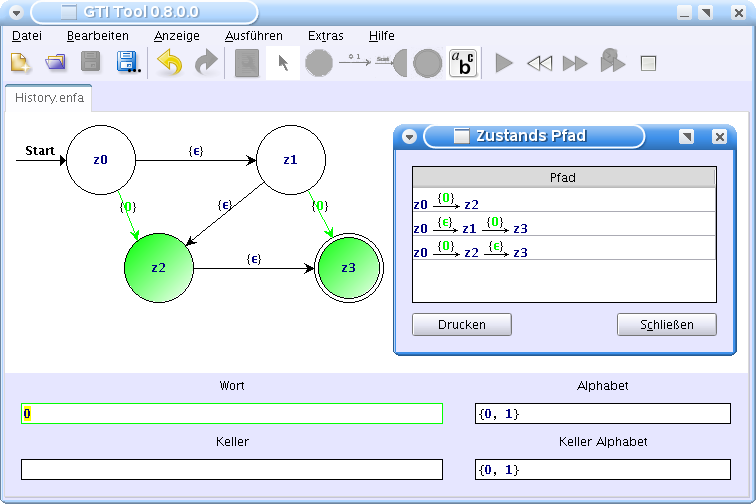
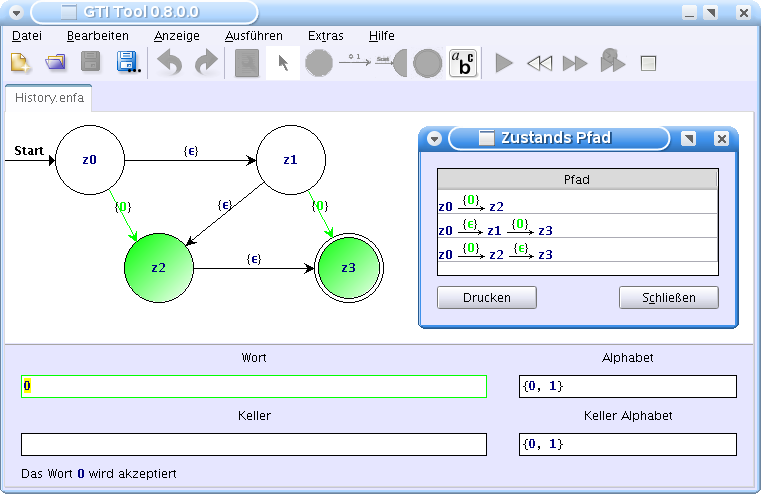
- Add a status bar to the word panel. - Update the manual images.
git-svn-id: https://vcs.informatik.uni-siegen.de/svn/gtitool/trunk@1184 d1fb0f2a-2248-4f96-a540-7c12a6a72a62

diff --git a/de.unisiegen.gtitool.ui/source/de/unisiegen/gtitool/ui/netbeans/WordPanelForm.java b/de.unisiegen.gtitool.ui/source/de/unisiegen/gtitool/ui/netbeans/WordPanelForm.java
@@ -126,8 +126,9 @@ public class WordPanelForm extends JPanel implements LanguageChangedListener
         styledStackParserPanel = new de.unisiegen.gtitool.ui.style.StyledStackParserPanel();
         jGTILabelPushDownAlphabet = new de.unisiegen.gtitool.ui.swing.JGTILabel();
         styledAlphabetParserPanelPushDown = new de.unisiegen.gtitool.ui.style.StyledAlphabetParserPanel();
-        jGTIPanelColumn1 = new de.unisiegen.gtitool.ui.swing.JGTIPanel();
-        jGTIPanelColumn2 = new de.unisiegen.gtitool.ui.swing.JGTIPanel();
+        jGTILabelStatus = new de.unisiegen.gtitool.ui.swing.JGTILabel();
+        jGTIColumn0 = new de.unisiegen.gtitool.ui.swing.JGTIPanel();
+        jGTIColumn1 = new de.unisiegen.gtitool.ui.swing.JGTIPanel();
 
         setLayout(new java.awt.GridBagLayout());
 
@@ -144,6 +145,7 @@ public class WordPanelForm extends JPanel implements LanguageChangedListener
         gridBagConstraints.gridx = 0;
         gridBagConstraints.gridy = 1;
         gridBagConstraints.fill = java.awt.GridBagConstraints.BOTH;
+        gridBagConstraints.weightx = 1.0;
         gridBagConstraints.weighty = 1.0;
         gridBagConstraints.insets = new java.awt.Insets(5, 0, 5, 16);
         add(styledWordParserPanel, gridBagConstraints);
@@ -183,8 +185,9 @@ public class WordPanelForm extends JPanel implements LanguageChangedListener
         gridBagConstraints.gridx = 0;
         gridBagConstraints.gridy = 3;
         gridBagConstraints.fill = java.awt.GridBagConstraints.BOTH;
+        gridBagConstraints.weightx = 1.0;
         gridBagConstraints.weighty = 1.0;
-        gridBagConstraints.insets = new java.awt.Insets(5, 0, 0, 16);
+        gridBagConstraints.insets = new java.awt.Insets(5, 0, 5, 16);
         add(styledStackParserPanel, gridBagConstraints);
 
         jGTILabelPushDownAlphabet.setHorizontalAlignment(javax.swing.SwingConstants.CENTER);
@@ -204,36 +207,42 @@ public class WordPanelForm extends JPanel implements LanguageChangedListener
         gridBagConstraints.gridy = 3;
         gridBagConstraints.fill = java.awt.GridBagConstraints.BOTH;
         gridBagConstraints.weighty = 1.0;
-        gridBagConstraints.insets = new java.awt.Insets(5, 16, 0, 16);
+        gridBagConstraints.insets = new java.awt.Insets(5, 16, 5, 16);
         add(styledAlphabetParserPanelPushDown, gridBagConstraints);
 
-        jGTIPanelColumn1.setMinimumSize(new java.awt.Dimension(100, 16));
-        jGTIPanelColumn1.setPreferredSize(new java.awt.Dimension(100, 16));
+        jGTILabelStatus.setText(bundle.getString("WordPanel.StatusEmpty")); // NOI18N
         gridBagConstraints = new java.awt.GridBagConstraints();
         gridBagConstraints.gridx = 0;
         gridBagConstraints.gridy = 4;
+        gridBagConstraints.gridwidth = 2;
+        gridBagConstraints.fill = java.awt.GridBagConstraints.HORIZONTAL;
+        gridBagConstraints.insets = new java.awt.Insets(5, 16, 0, 16);
+        add(jGTILabelStatus, gridBagConstraints);
+        gridBagConstraints = new java.awt.GridBagConstraints();
+        gridBagConstraints.gridx = 0;
+        gridBagConstraints.gridy = 5;
         gridBagConstraints.fill = java.awt.GridBagConstraints.BOTH;
         gridBagConstraints.weightx = 1.0;
-        add(jGTIPanelColumn1, gridBagConstraints);
+        add(jGTIColumn0, gridBagConstraints);
 
-        jGTIPanelColumn2.setMinimumSize(new java.awt.Dimension(200, 16));
-        jGTIPanelColumn2.setPreferredSize(new java.awt.Dimension(200, 16));
+        jGTIColumn1.setMinimumSize(new java.awt.Dimension(250, 5));
+        jGTIColumn1.setPreferredSize(new java.awt.Dimension(250, 5));
         gridBagConstraints = new java.awt.GridBagConstraints();
         gridBagConstraints.gridx = 1;
-        gridBagConstraints.gridy = 4;
+        gridBagConstraints.gridy = 5;
         gridBagConstraints.fill = java.awt.GridBagConstraints.BOTH;
-        gridBagConstraints.weightx = 0.25;
-        add(jGTIPanelColumn2, gridBagConstraints);
+        add(jGTIColumn1, gridBagConstraints);
     }// </editor-fold>//GEN-END:initComponents
     
     
     // Variables declaration - do not modify//GEN-BEGIN:variables
+    public de.unisiegen.gtitool.ui.swing.JGTIPanel jGTIColumn0;
+    public de.unisiegen.gtitool.ui.swing.JGTIPanel jGTIColumn1;
     public de.unisiegen.gtitool.ui.swing.JGTILabel jGTILabelAlphabet;
     public de.unisiegen.gtitool.ui.swing.JGTILabel jGTILabelPushDownAlphabet;
     public de.unisiegen.gtitool.ui.swing.JGTILabel jGTILabelStack;
+    public de.unisiegen.gtitool.ui.swing.JGTILabel jGTILabelStatus;
     public de.unisiegen.gtitool.ui.swing.JGTILabel jGTILabelWord;
-    public de.unisiegen.gtitool.ui.swing.JGTIPanel jGTIPanelColumn1;
-    public de.unisiegen.gtitool.ui.swing.JGTIPanel jGTIPanelColumn2;
     public de.unisiegen.gtitool.ui.style.StyledAlphabetParserPanel styledAlphabetParserPanelInput;
     public de.unisiegen.gtitool.ui.style.StyledAlphabetParserPanel styledAlphabetParserPanelPushDown;
     public de.unisiegen.gtitool.ui.style.StyledStackParserPanel styledStackParserPanel;

diff --git a/de.unisiegen.gtitool.ui/source/de/unisiegen/gtitool/ui/logic/MachinePanel.java b/de.unisiegen.gtitool.ui/source/de/unisiegen/gtitool/ui/logic/MachinePanel.java
@@ -3550,17 +3550,56 @@ public final class MachinePanel implements LogicClass < MachinePanelForm >,
       {
         this.gui.wordPanelForm.styledWordParserPanel
             .setAcceptedStatus ( AcceptedStatus.ACCEPTED );
+
+        Word word = new DefaultWord ();
+        try
+        {
+          word.add ( this.machine.getReadedSymbols () );
+        }
+        catch ( WordFinishedException exc )
+        {
+          // do nothing
+        }
+        catch ( WordResetedException exc )
+        {
+          // do nothing
+        }
+
+        this.gui.wordPanelForm.jGTILabelStatus.setText ( Messages
+            .getPrettyString ( "WordPanel.StatusAccepted", //$NON-NLS-1$
+                word.toPrettyString () ).toHTMLString () );
       }
       else
       {
         this.gui.wordPanelForm.styledWordParserPanel
             .setAcceptedStatus ( AcceptedStatus.NOT_ACCEPTED );
+
+        Word word = new DefaultWord ();
+        try
+        {
+          word.add ( this.machine.getReadedSymbols () );
+        }
+        catch ( WordFinishedException exc )
+        {
+          // do nothing
+        }
+        catch ( WordResetedException exc )
+        {
+          // do nothing
+        }
+
+        this.gui.wordPanelForm.jGTILabelStatus.setText ( Messages
+            .getPrettyString ( "WordPanel.StatusNotAccepted", //$NON-NLS-1$
+                word.toPrettyString () ).toHTMLString () );
       }
     }
     else
     {
       this.gui.wordPanelForm.styledWordParserPanel
           .setAcceptedStatus ( AcceptedStatus.NONE );
+
+      this.gui.wordPanelForm.jGTILabelStatus.setText ( Messages
+          .getString ( "WordPanel.StatusEmpty" ) ); //$NON-NLS-1$
     }
   }
 
